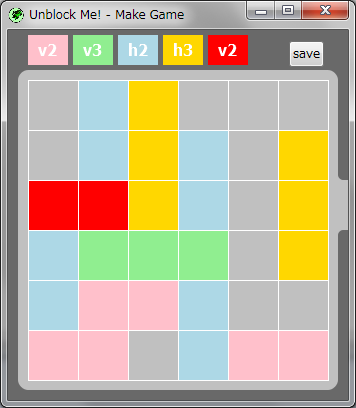
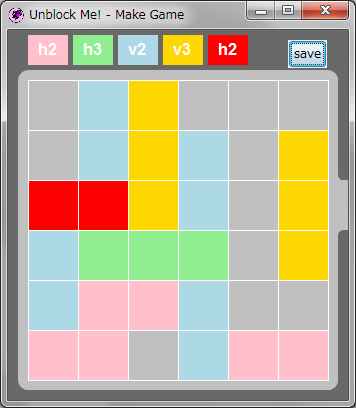
Oops, v is vertical and h is horizontal. xx-P

diff --git a/make_game.rb b/make_game.rb
@@ -62,7 +62,7 @@ end
 Shoes.app title: 'Unblock Me! - Make Game', width: 340, height: 370 do
   X, Y, W = 20, 50, 50
   COLORS = [pink, lightgreen, lightblue, gold, red]
-  ATTR = [:v2, :v3, :h2, :h3, :v2]
+  ATTR = [:h2, :h3, :v2, :v3, :h2]
   @colors, @game = [], Array.new(6){Array.new(6){'*'}}
   @color = COLORS.first
   extend Unblock
